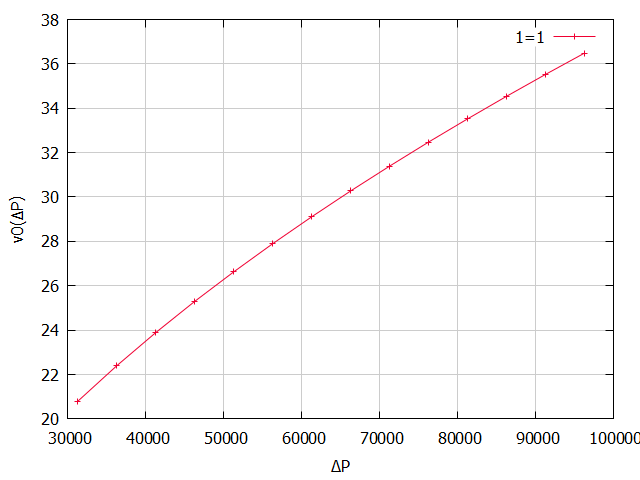
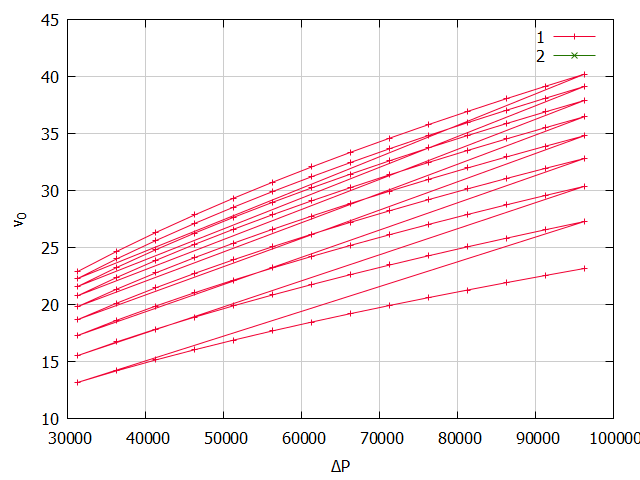
update0411

diff --git a/ErgunMod/Src/ErgunMod.cpp b/ErgunMod/Src/ErgunMod.cpp
@@ -21,6 +21,7 @@ int main()
     double k1 = 150.0;
     double k2 = 1.75;
     double D0 = 6.0e-3; // m
+    double Es = 1200; //Pa
     // 设置流体介质物性参数
     /*---------------------------------------------------------------------------
     rhoL -- 流体密度    mu -- 流体动力粘度    u0 -- 流体初始表征速度
@@ -34,8 +35,8 @@ int main()
     double Pin = 101325.0; // Pa
     double Pout = 71325.0; // Pa
     double DeltaP = Pin - Pout; // Pa
-    double v0, u0, vx, ut, px;
-    // 设置方程中间变量
+    double v0, u0, vx, ut, px, v1, u1;
+    // 设置原始Ergun方程中间变量
     /*---------------------------------------------------------------------------
     phi0 -- (1+e0)/e0    A0 -- 原始Ergun方程二次项系数
     B0 -- 原始Ergun方程一次项系数    C0 -- 原始Ergun方程常数项
@@ -44,40 +45,63 @@ int main()
     double A0 = k2 * phi0 * rhoL / D0 / g;
     double B0 = k1 * phi0 * phi0 * mu / (D0 * D0) / g;
     double C0 = -DeltaP / L;
+    // 设置弹性修正Ergun方程中间变量
+    /*---------------------------------------------------------------------------
+    phi0 -- (1+e0)/e0    A0 -- 弹性修正Ergun方程二次项系数
+    B0 -- 弹性修正Ergun方程一次项系数    C0 -- 弹性修正Ergun方程常数项
+    ---------------------------------------------------------------------------*/
+    double phi1 = (1 + e0) / (e0 - DeltaP / Es);
+    double A1 = k2 * phi0 * rhoL / D0 / g;
+    double B1 = k1 * phi0 * phi0 * mu / (D0 * D0) / g / (1- DeltaP / Es);
+    double C1 = -DeltaP / L;
+
     // 计算原始Ergun方程
     v0 = (-B0 + sqrt(B0 * B0 - 4 * A0 * C0)) / (2 * A0);
-    std::cout << v0 << "\t" << "m/s" << endl;
+    // 计算弹性修正Ergun方程
+    v1 = (-B1 + sqrt(B1 * B1 - 4 * A1 * C1)) / (2 * A1);
+
+    std::cout << "v0:  " << v0 << "\t" << "v1:  " << v1 << "\t" << "m/s" << endl;
     // 计算v0-deltaP关系
     int dPNum; // delta pressure data points number
     int e0Num; // e0 number
     dPNum = 14;
     e0Num = 9;
     std::vector<double>DeltaPs;
-    std::vector<double>v0s;
-    std::vector<double>C0s;
+    std::vector<double>v0s,v1s;
+    std::vector<double>C0s,C1s;
     double* phi0s = new double[e0Num];
+    double* phi1s = new double[e0Num];
 
+    eggp::Eggplot curvePlot(SCREEN|PNG);
+
+    curvePlot.xlabel("{/Symbol D}P");
+    curvePlot.ylabel("v_0");
+    curvePlot.grid(true);
     for (int j = 1; j < e0Num + 1; j++)
     {
         double e0s = 0.1 + 0.1 * j;
         phi0s[j-1] = (1 + e0s) / e0s;
         double A0s = k2 * phi0s[j-1] * rhoL / D0 / g;
         double B0s = k1 * phi0s[j-1] * phi0s[j-1] * mu / (D0 * D0) / g;
+
         for (int i = 1; i < dPNum + 1; i++)
         {
             DeltaPs.push_back(Pin - i * 5000.0);
             C0s.push_back(-DeltaPs[i - 1] / L);
             v0s.push_back((-B0s + sqrt(B0s * B0s - 4 * A0s * C0s[i - 1])) / (2 * A0s));
-            std::cout << "DeltaP " << i << ":" << DeltaPs[i - 1] << "\t" << "v0 " << ":" << v0s[i - 1] << endl;
+
+            phi1s[j-1] = (1 + e0s) / (e0s - DeltaPs[i-1] / Es);
+            double A1s = k2 * phi1s[j-1] * rhoL / D0 / g;
+            double B1s = k1 * phi1s[j-1] * phi1s[j-1] * mu / (D0 * D0) / g / (1- DeltaPs[i-1]/ Es);
+            C1s.push_back(-DeltaPs[i - 1] / L);
+            v1s.push_back((-B1s - sqrt(B1s * B1s - 4 * A1s * C1s[i - 1])) / (2 * A1s));
+            std::cout << "DeltaP " << i << ":  " << DeltaPs[i - 1] << "\t" << "v0 " << ":  " 
+                      << v0s[i - 1] << "\t" << "v1 " << ":  " << v1s[i - 1] << endl;
         }
     }
-    eggp::Eggplot curvePlot(SCREEN|PNG);
-    curvePlot.xlabel("{/Symbol D}P");
-    curvePlot.ylabel("v_0");
-    curvePlot.plot({ DeltaPs,v0s });
-    curvePlot.legend({ "{/Symbol 1}=1",
-                       "{/Symbol 1}=4" });
-    curvePlot.grid(true);
+    curvePlot.plot({ DeltaPs, v0s, DeltaPs, v1s });
+    //curvePlot.legend({ "{/Symbol 1}=1",
+    //                   "{/Symbol 1}=4" });
     curvePlot.exec();
     Sleep(60000);
     delete[] phi0s;
